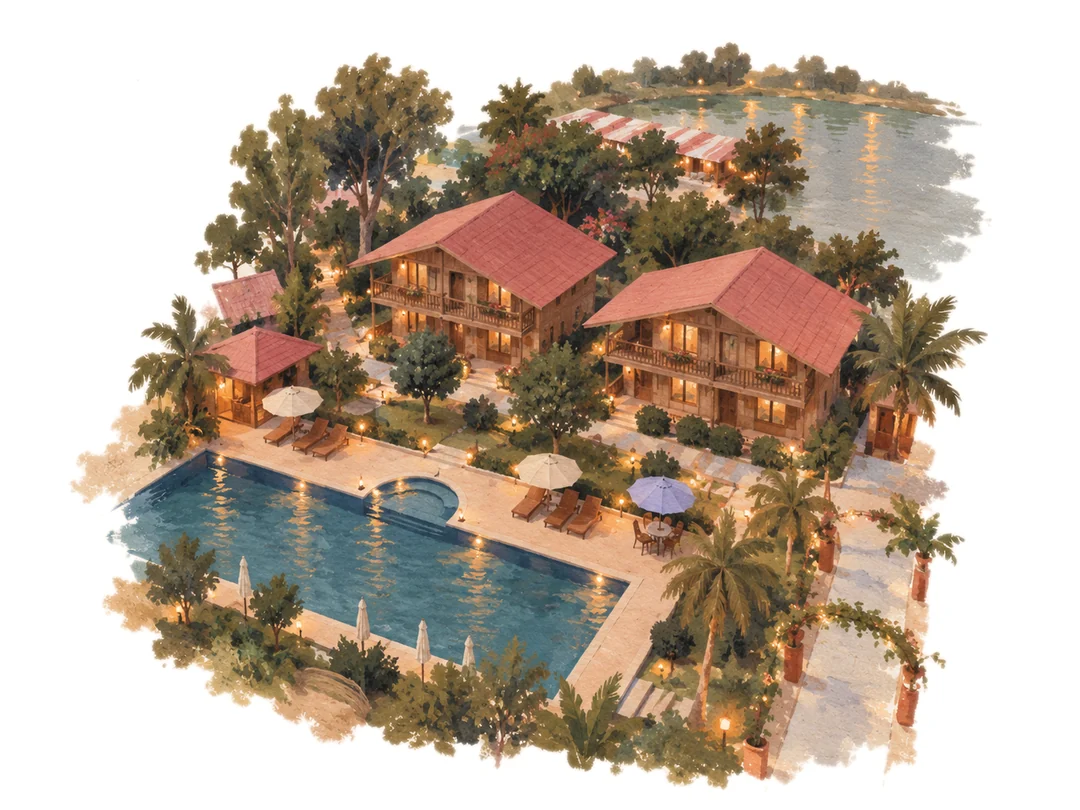
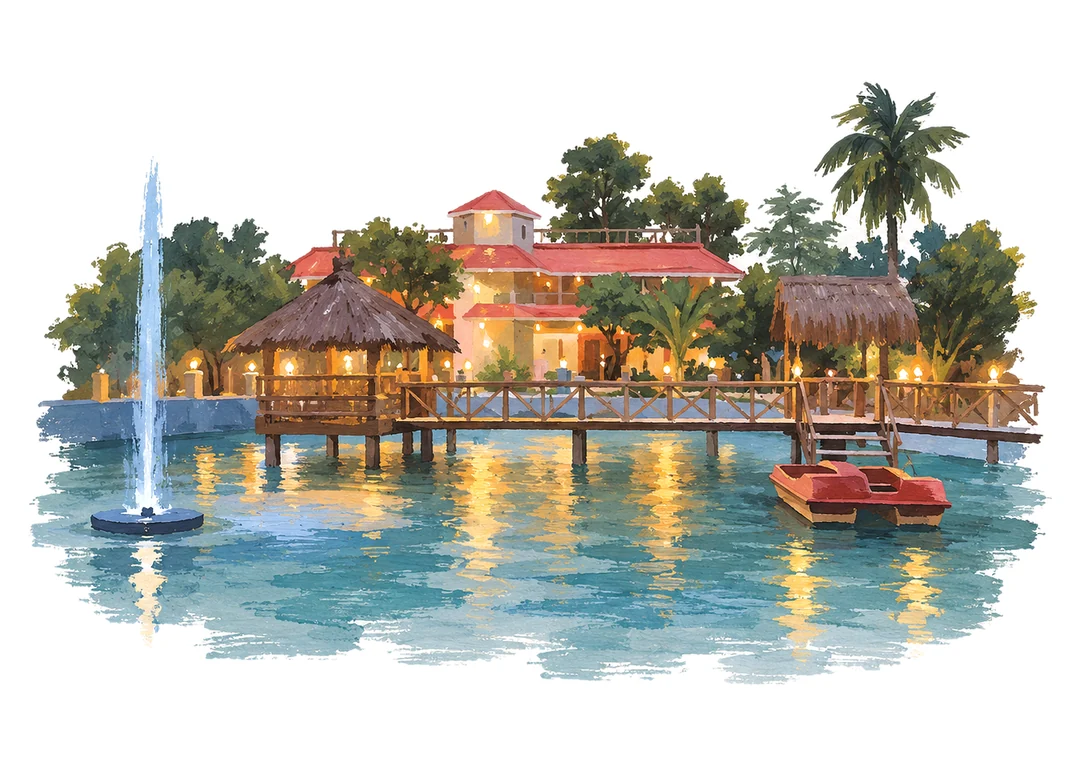
New lotus borders, exact text colours, Section 6 venue updates, repo cleanup
- Borders: rose pink (Section 2), brick red (3), yellow (4), leaf green (6);
  all five borders share one width
- Sections 3 and 4: pink text is #C9357F and green text #4C8414; the white
  glow behind Section 4 text is removed so the true colours show
- Section 6: lakeside resort painting in the venue card, pink card outline,
  original red location pin without its shadow
- Remove replaced border strips, the unused burgundy pin and leftover colour
  variables; README notes the palette and how borders are set

diff --git a/assets/css/style.css b/assets/css/style.css
@@ -7,12 +7,8 @@
 :root {
   --ivory: #FFFFFF;          /* page background: pure white */
   --ivory-deep: #F4EBDA;
-  --card: #FFFFFF;
   --ink: #2F3D1C;          /* deep olive, matches the calendar */
-  --leaf: #4A7330;
   --lotus: #E58FA6;
-  --rose: #B83B60;
-  --pink-deep: #A94064;    /* dusty rose pink */
   --pink: #C9357F;         /* lotus pink: hearts and countdown */
   --green: #4C8414;        /* leaf green */
   --gold: #946715;
@@ -267,11 +263,11 @@ p { margin: 0; }
 .bordered .art { width: calc(100% - 2 * var(--bd)); }
 .bordered .art--top    { right: var(--bd); }
 .bordered .art--bottom { left: var(--bd); }
-.date { --border: url("../img/border-pink.webp?v=1"); }
-.invite { --border: url("../img/border-maroon.webp?v=1"); }
-.events { --border: url("../img/border-green.webp?v=1"); }
+.date { --border: url("../img/border-rose.webp?v=1"); }
+.invite { --border: url("../img/border-brick.webp?v=1"); }
+.events { --border: url("../img/border-yellow.webp?v=1"); }
 .story  { --border: url("../img/border-blue.webp?v=2"); }
-.closing { --border: url("../img/border-bronze.webp?v=1"); }
+.closing { --border: url("../img/border-leaf.webp?v=1"); }
 .date .content { padding-top: 0; padding-bottom: 7cqb; }
 .calendar {
   width: min(70cqi, 38cqb);
@@ -454,7 +450,7 @@ p { margin: 0; }
   font-size: clamp(11px, min(2.9cqi, 1.5cqb), 12px);
   letter-spacing: .3em;
   text-transform: uppercase;
-  color: var(--rose);
+  color: var(--pink);
 }
 .invite__with span { width: 28px; height: 1px; background: var(--line); }
 .invite__when {
@@ -475,8 +471,8 @@ p { margin: 0; }
   letter-spacing: .16em;
   text-transform: uppercase;
 }
-.invite__time { margin-bottom: .6cqb; color: var(--pink-deep); }
-.invite__when strong { font-weight: 700; color: var(--pink-deep); }
+.invite__time { margin-bottom: .6cqb; color: var(--pink); }
+.invite__when strong { font-weight: 700; color: var(--pink); }
 
 /* --------------------------------------------------------------------------
    4 · Events
@@ -516,8 +512,6 @@ p { margin: 0; }
   width: 100%;
   max-width: 300px;
 }
-/* where a leaf passes behind a letter (short screens), a tight white glow keeps the word readable */
-.events .content { text-shadow: 0 0 3px #fff, 0 0 6px #fff, 0 0 10px #fff; }
 .events__divider {
   display: flex; align-items: center; justify-content: center; gap: 10px;
   margin: 0;
@@ -686,7 +680,7 @@ p { margin: 0; }
   border-radius: 14px;
   overflow: hidden;
   background: #fff;
-  border: 1px solid #C9A45C;                                   /* thin antique-gold outline */
+  border: 1px solid var(--pink);                              /* thin pink outline (#C9357F) */
   box-shadow: 0 8px 20px -14px rgba(47, 61, 28, .3);           /* softened */
   text-decoration: none;
   color: inherit;
@@ -699,7 +693,6 @@ p { margin: 0; }
   flex: none;
   width: 3.5cqi; height: auto;
   margin: 0 0 1.2cqb;
-  filter: drop-shadow(0 1px 1.5px rgba(90, 38, 48, .25));   /* flat marker, just lifted off the page */
 }
 .venue__panel {
   display: grid;

diff --git a/index.html b/index.html
@@ -23,7 +23,7 @@
   <link rel="preconnect" href="https://fonts.gstatic.com" crossorigin>
   <link href="https://fonts.googleapis.com/css2?family=Cinzel:wght@500;600&family=Delius&family=Josefin+Sans:wght@400;600&family=Jost:wght@500&family=Libre+Baskerville:wght@400;700&family=Lora:wght@400;500;600&family=Sacramento&display=swap" rel="stylesheet">
   <link rel="preload" as="image" href="assets/img/intro-poster.jpg">
-  <link rel="stylesheet" href="assets/css/style.css?v=2026-10-10b">
+  <link rel="stylesheet" href="assets/css/style.css?v=2026-10-11h">
 </head>
 <body>
 
@@ -172,12 +172,12 @@
             As we celebrate this joyous union, all we wish for is your presence and blessings!
           </p>
 
-          <img class="venue-pin reveal" src="assets/img/location-pin.svg" alt="" width="24" height="33" decoding="async">
+          <img class="venue-pin reveal" src="assets/img/location-marker.webp" alt="" width="138" height="192" decoding="async">
 
           <a class="venue reveal" id="venueLink" href="https://maps.app.goo.gl/ZiHNTMsZSQDxUcC1A" target="_blank" rel="noopener"
              aria-label="Get directions to Banabithi Resort, 17 and 18 January 2027">
             <span class="venue__map">
-              <img class="venue__photo" src="assets/img/venue-illustration.webp?v=evening" alt="" width="1080" height="810" loading="lazy" decoding="async">
+              <img class="venue__photo" src="assets/img/venue-illustration.webp?v=lakeside" alt="" width="1080" height="766" loading="lazy" decoding="async">
             </span>
             <span class="venue__panel">
               <span class="venue__place"><strong>Banabithi Resort</strong><small>17 &amp; 18 Jan 2027</small></span>
@@ -221,6 +221,6 @@
     <p>Please turn your phone upright<br>to view the invitation</p>
   </div>
 
-  <script src="assets/js/main.js?v=2026-10-10b"></script>
+  <script src="assets/js/main.js?v=2026-10-11h"></script>
 </body>
 </html>

diff --git a/README.md b/README.md
@@ -8,6 +8,7 @@ assets/css/style.css  styles (colours are CSS variables at the top)
 assets/js/main.js     countdown, music, section snapping, photo slideshow, map link
 assets/img/           optimised artwork and photos (WebP)
 assets/img/story/     the Section 5 slideshow photos (square, 1080px max)
+assets/img/border-*   the lotus side borders, one per section (tiled down the page)
 assets/video/         intro video (re-encoded, silent)
 assets/audio/         song.m4a — "Tumhi Dekho Naa" (the background music)
 backup/               original uploads and unused files (kept locally, never committed)
@@ -18,6 +19,14 @@ Save it as `assets/audio/song.m4a` (AAC plays on every browser, including older 
 It loops at 50% volume. Browsers don't allow sound before a guest interacts with the page, so the music
 starts on their first tap, click or key press (or right away, if the browser allows it).
 Use the local server below to test it, because the 50% volume handling on iPhones needs the page to be served over http.
+
+## Colours and borders
+Text uses two accent colours: green `#4C8414` (names and headings) and pink `#C9357F`
+(dates, times, venues), with dark olive `#2F3D1C` for body sentences. They're `--green`,
+`--pink` and `--ink` at the top of `style.css`.
+
+Sections 2–6 each have a lotus border down both sides. All borders share one width
+(`--bd` in `.bordered`); each section picks its strip with `--border`.
 
 ## Preview locally
 ```bash
